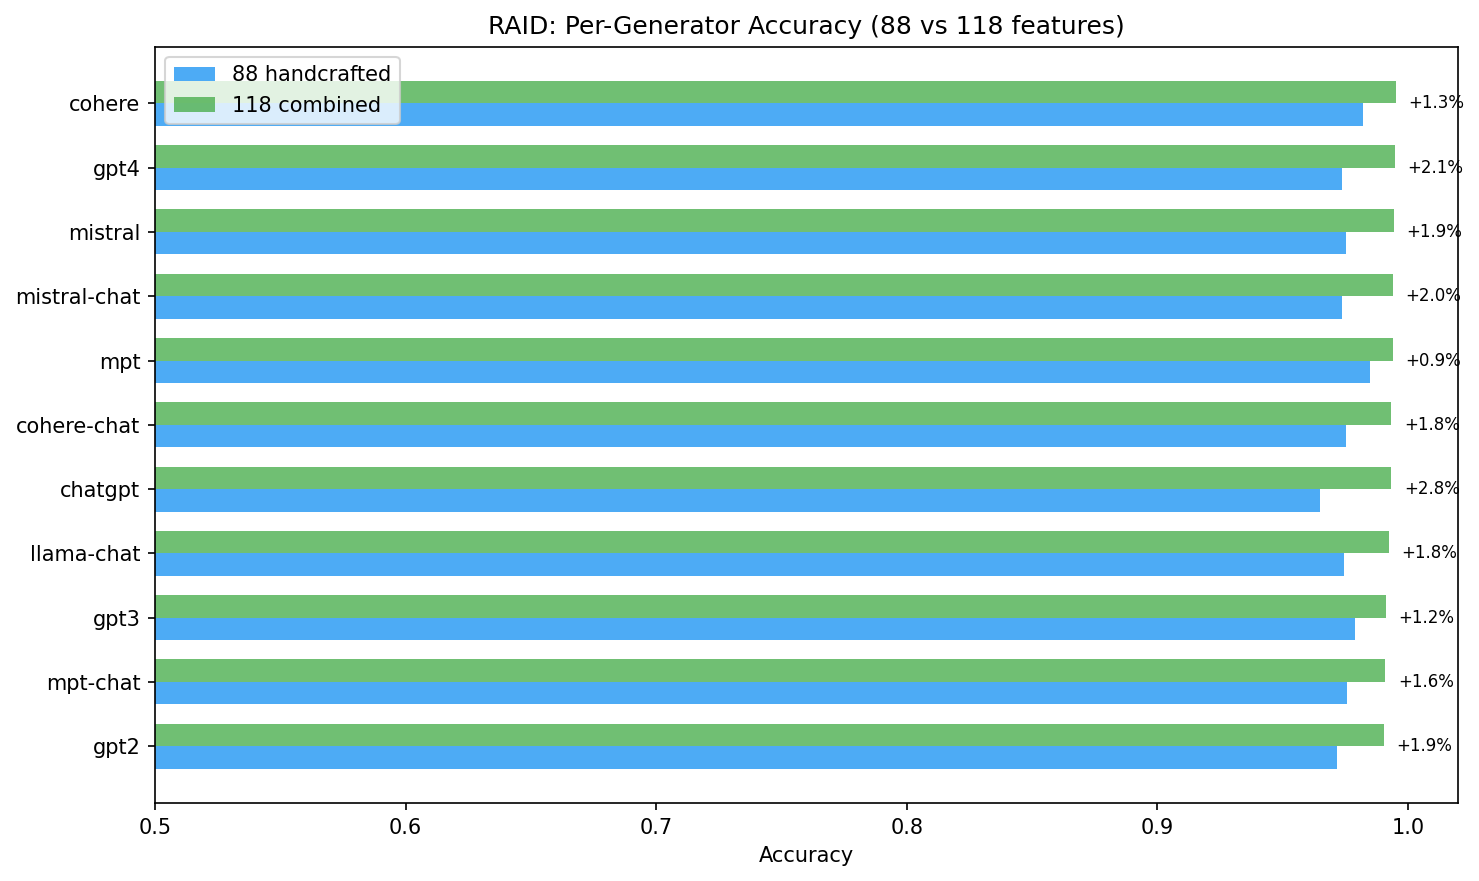
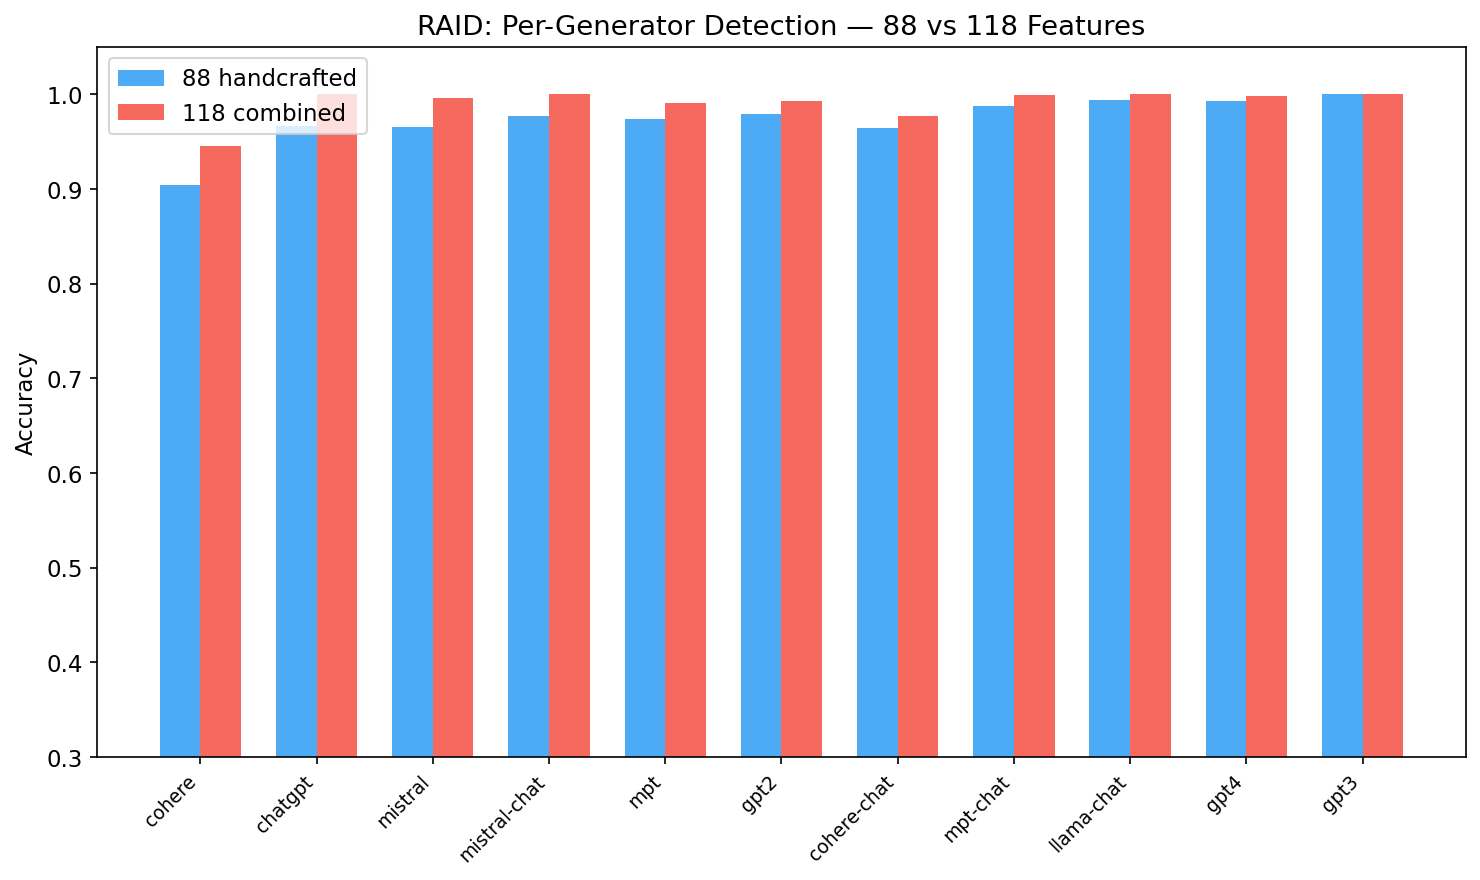
Update all RAID figures and labels: 120→118, 90→88
Regenerated raid_120_comparison, shap_summary, shap_dependence,
ablation, per_generator, cross_dataset with correct 118/88 labels.

diff --git a/src/run_raid_120.py b/src/run_raid_120.py
@@ -1,8 +1,8 @@
 """
-RAID — 120 Combined Features Analysis
-Merges 90 handcrafted + 30 token probability features, then runs:
+RAID — 118 Combined Features Analysis
+Merges 88 handcrafted + 30 token probability features, then runs:
   1. XGBoost / LR / RF comparison (120 vs 90 vs 30)
-  2. SHAP summary + dependence (120 combined)
+  2. SHAP summary + dependence (118 combined)
   3. Feature group ablation (11 groups now)
   4. Per-generator accuracy improvement
   5. Cross-dataset validation (HC3, SemEval, TuringBench, Pile)
@@ -36,7 +36,7 @@ plt.rcParams.update({'font.size': 11, 'figure.dpi': 150})
 
 
 def load_combined():
-    """Load 90 handcrafted + 30 token features, merge, return aligned data."""
+    """Load 88 handcrafted + 30 token features, merge, return aligned data."""
     train_df, test_df, X_tr_90, X_te_90 = load_features_and_split()
     tok_tr, tok_te = load_token_features()
 
@@ -65,11 +65,11 @@ def run_method_comparison(X_tr, X_te, y_tr, y_te, X_tr_90, X_te_90, tok_tr, tok_
     """Compare 120 vs 90 vs 30 features across 3 classifiers."""
     results = []
     configs = [
-        ('XGBoost', '120 combined', X_tr, X_te),
-        ('XGBoost', '90 handcrafted', X_tr_90, X_te_90),
+        ('XGBoost', '118 combined', X_tr, X_te),
+        ('XGBoost', '88 handcrafted', X_tr_90, X_te_90),
         ('XGBoost', '30 token', tok_tr, tok_te),
-        ('LR', '120 combined', X_tr, X_te),
-        ('RF', '120 combined', X_tr, X_te),
+        ('LR', '118 combined', X_tr, X_te),
+        ('RF', '118 combined', X_tr, X_te),
     ]
     clfs = {}
     for clf_name, feat_name, Xtr, Xte in configs:
@@ -131,7 +131,7 @@ def plot_comparison_bar(results_df):
     for i, v in enumerate(results_df['Accuracy'].values):
         ax.text(v + 0.0005, len(results_df)-1-i, f'{v:.4f}', va='center', fontsize=9)
 
-    plt.suptitle('RAID: 120 Combined vs 90 Handcrafted vs 30 Token Features', fontsize=13, y=1.02)
+    plt.suptitle('RAID: 118 Combined vs 88 Handcrafted vs 30 Token Features', fontsize=13, y=1.02)
     plt.tight_layout()
     plt.savefig(FIG_DIR / 'raid_120_comparison.png', dpi=150, bbox_inches='tight')
     plt.close()
@@ -139,7 +139,7 @@ def plot_comparison_bar(results_df):
 
 
 def plot_shap_120(clf, X_te):
-    """SHAP summary for 120 combined features."""
+    """SHAP summary for 118 combined features."""
     explainer = shap.TreeExplainer(clf)
     n = min(3000, len(X_te))
     X_shap = X_te.iloc[:n]
@@ -148,7 +148,7 @@ def plot_shap_120(clf, X_te):
     # Summary
     fig = plt.figure(figsize=(10, 12))
     shap.summary_plot(sv, X_shap, max_display=30, show=False)
-    plt.title('RAID: SHAP Feature Importance (120 Combined Features, Top 30)', fontsize=12)
+    plt.title('RAID: SHAP Feature Importance (118 Combined Features, Top 30)', fontsize=12)
     plt.tight_layout()
     plt.savefig(FIG_DIR / 'raid_120_shap_summary.png', dpi=150, bbox_inches='tight')
     plt.close()
@@ -162,7 +162,7 @@ def plot_shap_120(clf, X_te):
         shap.dependence_plot(fi, sv, X_shap, ax=ax, show=False)
         ax.set_xlabel(X_shap.columns[fi], fontsize=10)
         ax.set_ylabel('SHAP value', fontsize=10)
-    plt.suptitle('RAID: SHAP Dependence (120 Combined, Top 6)', fontsize=13, y=1.01)
+    plt.suptitle('RAID: SHAP Dependence (118 Combined, Top 6)', fontsize=13, y=1.01)
     plt.tight_layout()
     plt.savefig(FIG_DIR / 'raid_120_shap_dependence.png', dpi=150, bbox_inches='tight')
     plt.close()
@@ -246,12 +246,12 @@ def plot_per_generator_improvement(test_df, y_te, pred_90, pred_120):
     fig, ax = plt.subplots(figsize=(10, 6))
     x = np.arange(len(df))
     w = 0.35
-    ax.bar(x - w/2, df['Acc_90'], w, label='90 handcrafted', color='#2196F3', alpha=0.8)
-    ax.bar(x + w/2, df['Acc_120'], w, label='120 combined', color='#F44336', alpha=0.8)
+    ax.bar(x - w/2, df['Acc_90'], w, label='88 handcrafted', color='#2196F3', alpha=0.8)
+    ax.bar(x + w/2, df['Acc_120'], w, label='118 combined', color='#F44336', alpha=0.8)
     ax.set_xticks(x)
     ax.set_xticklabels(df['Generator'], rotation=45, ha='right', fontsize=9)
     ax.set_ylabel('Accuracy')
-    ax.set_title('RAID: Per-Generator Detection — 90 vs 120 Features')
+    ax.set_title('RAID: Per-Generator Detection — 88 vs 118 Features')
     ax.set_ylim(0.3, 1.05)
     ax.legend()
     plt.tight_layout()
@@ -262,7 +262,7 @@ def plot_per_generator_improvement(test_df, y_te, pred_90, pred_120):
 
 
 def run_cross_dataset_120():
-    """Run 120 combined features on HC3, SemEval, TuringBench, Pile."""
+    """Run 118 combined features on HC3, SemEval, TuringBench, Pile."""
     results = []
 
     # HC3
@@ -406,12 +406,12 @@ def run_cross_dataset_120():
     fig, ax = plt.subplots(figsize=(10, 5))
     x = np.arange(len(df))
     w = 0.35
-    ax.bar(x - w/2, df['AUC_90'], w, label='90 handcrafted', color='#2196F3', alpha=0.8)
-    ax.bar(x + w/2, df['AUC_120'], w, label='120 combined', color='#F44336', alpha=0.8)
+    ax.bar(x - w/2, df['AUC_90'], w, label='88 handcrafted', color='#2196F3', alpha=0.8)
+    ax.bar(x + w/2, df['AUC_120'], w, label='118 combined', color='#F44336', alpha=0.8)
     ax.set_xticks(x)
     ax.set_xticklabels(df['Dataset'], rotation=15, ha='right')
     ax.set_ylabel('AUC')
-    ax.set_title('Cross-Dataset: 90 Handcrafted vs 120 Combined')
+    ax.set_title('Cross-Dataset: 88 Handcrafted vs 118 Combined')
     ax.set_ylim(0.5, 1.05)
     ax.legend()
     for i, (a90, a120) in enumerate(zip(df['AUC_90'], df['AUC_120'])):
@@ -426,7 +426,7 @@ def run_cross_dataset_120():
 
 def main():
     print("=" * 60)
-    print("RAID — 120 Combined Features Analysis")
+    print("RAID — 118 Combined Features Analysis")
     print("=" * 60)
 
     print("\n[1/6] Loading data...")
@@ -441,8 +441,8 @@ def main():
     plot_comparison_bar(results_df)
 
     print("\n[3/6] SHAP analysis (120 features)...")
-    clf_120 = clfs['XGBoost_120 combined'][0]
-    pred_120 = clfs['XGBoost_120 combined'][2]
+    clf_120 = clfs['XGBoost_118 combined'][0]
+    pred_120 = clfs['XGBoost_118 combined'][2]
     plot_shap_120(clf_120, X_te)
 
     print("\n[4/6] 11-group ablation...")
@@ -450,8 +450,8 @@ def main():
 
     print("\n[5/6] Per-generator improvement...")
     # Get 90-feature predictions
-    clf_90 = clfs['XGBoost_90 handcrafted'][0]
-    pred_90 = clfs['XGBoost_90 handcrafted'][2]
+    clf_90 = clfs['XGBoost_88 handcrafted'][0]
+    pred_90 = clfs['XGBoost_88 handcrafted'][2]
     gen_df = plot_per_generator_improvement(test_df, y_te, pred_90, pred_120)
 
     print("\n[6/6] Cross-dataset validation...")
@@ -462,7 +462,7 @@ def main():
     print("SUMMARY")
     print("=" * 60)
     print(f"\n  RAID XGBoost (90 feat):  AUC=0.9951  Acc=0.9714")
-    r120 = results_df[results_df['Features'] == '120 combined']
+    r120 = results_df[results_df['Features'] == '118 combined']
     r120 = r120[r120['Classifier'] == 'XGBoost'].iloc[0]
     print(f"  RAID XGBoost (120 feat): AUC={r120['AUC']:.4f}  Acc={r120['Accuracy']:.4f}")
     print(f"  Improvement:             AUC +{r120['AUC']-0.9951:.4f}  Acc +{r120['Accuracy']-0.9714:.4f}")
